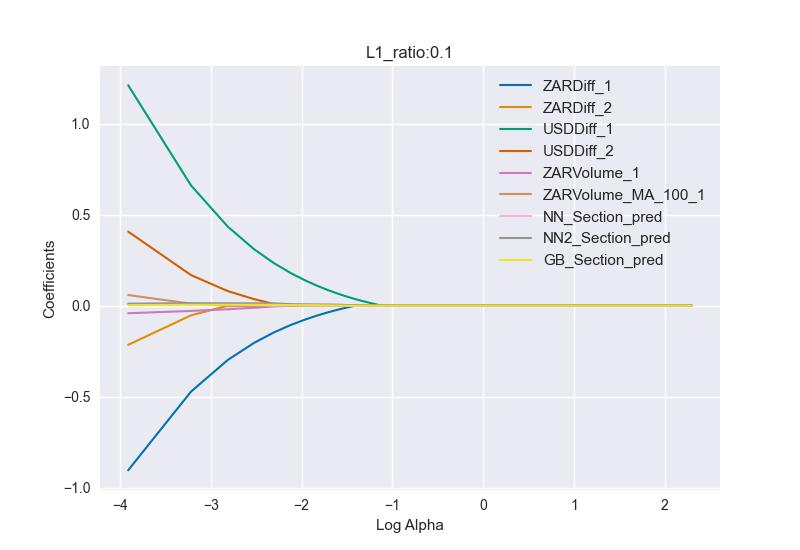
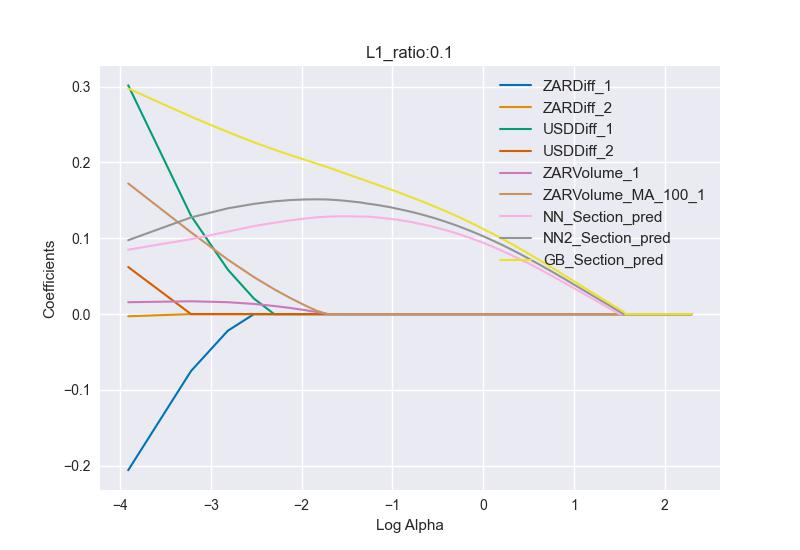
Updates

diff --git a/Scripts/SeperateMiddle.py b/Scripts/SeperateMiddle.py
@@ -1,6 +1,6 @@
 import pandas as pd
 from Descriptive_Statistics_Functions import setup_and_graph_fiat, plotOverTime, categorical_heat_map_from_conf_mat
-from Std_fin_ts_data_setup import mark_middle, mark_middle2
+from Std_fin_ts_data_setup import mark_middle, mark_middle2, up_down
 from Shrinkage_methods import Shrinkage_Methods
 from ML_Package import runML_tests
 import numpy as np
@@ -19,15 +19,17 @@ BTCFiat = setup_and_graph_fiat(BTCUSD,BTCZAR,startDate,endDate,diffSavePath=f'{i
 
 BTCFiat = mark_middle(BTCFiat,'ZARDiff',[-0.1,0.1],'Timestamp')
 BTCFiat = mark_middle2(BTCFiat,'ZARDiff',[-0.1,0.1],'Timestamp')
+BTCFiat = up_down(BTCFiat,'ZARDiff','Timestamp')
 
-ax = BTCFiat['Section_tag'].plot.hist(bins=2, alpha=0.9)
+
+ax = BTCFiat['Updown_tag'].plot.hist(bins=2, alpha=0.9)
 ax.plot()
 plt.show()
 
 print('\nFull set\n')
-print(BTCFiat['Section_tag'].value_counts())
-for i in BTCFiat['Section_tag'].value_counts():
-    print(f'{i/len(BTCFiat["Section_tag"])}')
+print(BTCFiat['Updown_tag'].value_counts())
+for i in BTCFiat['Updown_tag'].value_counts():
+    print(f'{i/len(BTCFiat["Updown_tag"])}')
 
 for i in BTCFiat.columns:
     print(i)
@@ -99,11 +101,11 @@ AugmentedVars = refinedVolVars + ['NN_Section_pred','NN2_Section_pred','GB_Secti
 
 #Testing for ability to predict 4 categories around the middle (i.e. non-binary)
 print('\n\nNon-binary tests ____________________________________________________________')
-Shrinkage = Shrinkage_Methods(BTCFiat,non_binary ,'Section_tag2', 10 )
+Shrinkage = Shrinkage_Methods(BTCFiat,non_binary ,'Updown_tag', 10 )
 Shrinkage.Elastic_Gridsearch(0.1,figSavePath=f'{imageFolderPath}/augmentedMidPredShrink.jpeg',show_coefficients=True,minAlpha=0,maxAlpha=10)
 
 print('##Non-binary Neural Network Tests\n___________________________________________________________________________')
-ML_2(BTCFiat,'clf_NN',startDate,non_binary,'Section_tag2')
+ML_2(BTCFiat,'clf_NN',startDate,non_binary,'Updown_tag')
 
 print('##Non-binary Gradient Boosting Tests\n___________________________________________________________________________')
-ML_2(BTCFiat,'clf_GradientBoosting',startDate,non_binary,'Section_tag2')
+ML_2(BTCFiat,'clf_GradientBoosting',startDate,non_binary,'Updown_tag')

diff --git a/Scripts/Std_fin_ts_data_setup.py b/Scripts/Std_fin_ts_data_setup.py
@@ -170,7 +170,6 @@ def mark_middle(df,variable,range:list[float],timevar:str):
 
     return df
 
-
 def mark_middle2(df,variable,range:list[float],timevar:str):
 
     df_3 = df[df[variable] < range[1]]
@@ -191,6 +190,19 @@ def mark_middle2(df,variable,range:list[float],timevar:str):
     df = df.sort_values(by=timevar,axis=0,ascending=True)
 
     #df.drop(columns = ['varCat'])
+
+    return df
+
+def up_down(df,variable,timevar:str):
+
+    df1 = df[df[variable] < 0 ] #this should be below 0
+    df1 = df1.assign(Updown_tag=0)
+
+    df2 = df[df[variable] >0 ] #this should be above 0
+    df2 = df2.assign(Updown_tag=1)
+
+    df = pd.concat([df1, df2], axis=0)
+    df = df.sort_values(by=timevar,axis=0,ascending=True)
 
     return df
 

diff --git a/Scripts/ML_Package.py b/Scripts/ML_Package.py
@@ -131,7 +131,7 @@ def setClassifier(clf_type,XVars,binary, random_state=42):
         else:
             L_3 = 4
 
-        clf = MLPClassifier(hidden_layer_sizes=(L_1,200,20,2), activation='relu', solver='lbfgs', alpha=0.0001,
+        clf = MLPClassifier(hidden_layer_sizes=(L_1,200,20,2), activation='relu', solver='adam', alpha=0.0001,
                             max_iter=10000, random_state=random_state,early_stopping=False,learning_rate='adaptive',
                             n_iter_no_change=100)
 
